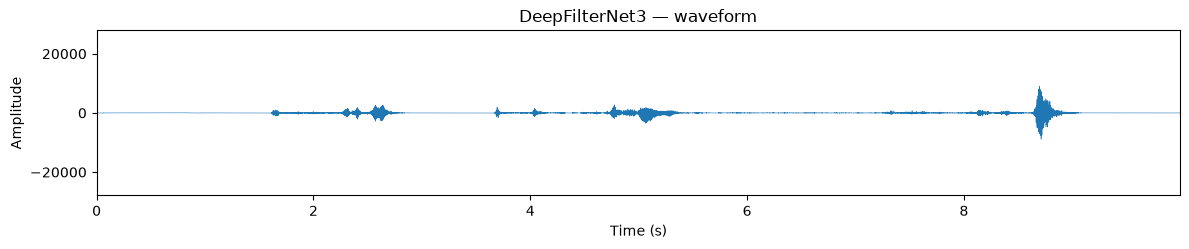
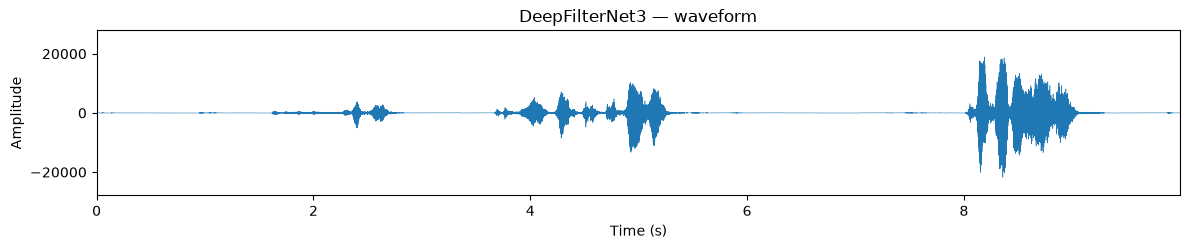
Fix DeepFilterNet speech loss: normalize input level before inference

Changed region(s): [[0.3734, 0.253, 0.9336, 0.6747], [0.2801, 0.4217, 0.3112, 0.506], [0.1245, 0.4498, 0.1867, 0.4779]]

diff --git a/index.html b/index.html
@@ -112,7 +112,9 @@ computed</strong>.</p>
   (<a href="https://github.com/Rikorose/DeepFilterNet">Rikorose/DeepFilterNet</a>).
   Predicts perceptual-band gains plus a complex multi-frame filter for the
   low frequencies, removing noise even underneath the speech. Run here with
-  the authors' pretrained checkpoint.</p>
+  the authors' pretrained checkpoint; the input is level-normalized to
+  −9&nbsp;dBFS RMS before inference (the checkpoint suppresses speech on
+  quiet inputs) and the gain undone afterwards.</p>
   <audio controls preload="none" src="audio/deepfilternet_enhanced.wav"></audio>
   <img src="plots/waveform_deepfilternet.png" alt="DeepFilterNet waveform" loading="lazy">
   <details><summary>Spectrogram (noisy vs enhanced)</summary>
@@ -129,13 +131,13 @@ computed</strong>.</p>
   <tr><td>Spectral subtraction</td><td>60.2 dB</td><td>gentlest, most musical noise</td></tr>
   <tr><td>Wiener</td><td>58.7 dB</td><td>stronger suppression, still musical noise</td></tr>
   <tr><td>Ephraim–Malah</td><td>55.9 dB</td><td>strongest classical, smooth residual</td></tr>
-  <tr><td>DeepFilterNet3</td><td><strong>39.6 dB</strong></td><td>neural, far cleaner residual</td></tr>
+  <tr><td>DeepFilterNet3</td><td><strong>40.4 dB</strong></td><td>neural, far cleaner residual</td></tr>
 </table>
 <p>The classical methods form a clear progression, but all share the same
 limit: a stationary noise model and a real per-bin gain cannot remove noise
 that overlaps speech in time and frequency. The pretrained neural model —
 having learned speech structure from data — reduces noise by ~24&nbsp;dB,
-over 16&nbsp;dB beyond the best classical method.</p>
+over 15&nbsp;dB beyond the best classical method.</p>
 
 </body>
 </html>

diff --git a/src/deepfilternet_test.py b/src/deepfilternet_test.py
@@ -58,13 +58,21 @@ def main():
     print(f'loaded {filename}: {meta.num_frames} samples at {meta.sample_rate} Hz '
           f'-> resampled to {model_sr} Hz')
 
+    # Normalize input level before inference: this DeepFilterNet3 checkpoint
+    # degrades badly on quiet inputs (it starts suppressing the speech itself),
+    # so bring the RMS up to about -9 dBFS and undo the gain afterwards.
+    target_rms_db = -9.
+    rms_db = 20 * torch.log10(audio.pow(2).mean().sqrt() + 1e-12).item()
+    gain = 10 ** ((target_rms_db - rms_db) / 20)
+    print(f'input RMS {rms_db:.1f} dBFS -> applying {20*np.log10(gain):.1f} dB gain for inference')
+
     # Enhance
-    enhanced = enhance(model, df_state, audio)
+    enhanced = enhance(model, df_state, audio * gain)
 
     # Resample back to the input rate and save
     enhanced_out = resample(enhanced, model_sr, meta.sample_rate)
-    # load_audio returns floats in [-1, 1]; scale back to int16 range
-    out = enhanced_out.squeeze(0).numpy() * 32767
+    # load_audio returns floats in [-1, 1]; scale back to int16 range and undo the gain
+    out = enhanced_out.squeeze(0).numpy() * 32767 / gain
     out_wav = os.path.join(results_dir, 'deepfilternet_enhanced.wav')
     wavfile.write(out_wav, meta.sample_rate, np.clip(out, -32768, 32767).astype(np.int16))
     print(f'wrote {out_wav}')

diff --git a/README.md b/README.md
@@ -153,15 +153,22 @@ flowchart LR
 ```mermaid
 flowchart LR
     WAV[enhancement_test.wav<br/>44.1 kHz] --> RS1[resample to 48 kHz]
-    RS1 --> STFT[STFT + ERB features]
+    RS1 --> NORM[normalize level<br/>to −9 dBFS RMS]
+    NORM --> STFT[STFT + ERB features]
     STFT --> ENC[encoder]
     ENC --> G[ERB gain decoder<br/>32-band gains]
     ENC --> DF[deep filtering decoder<br/>complex FIR per low-freq bin]
     G --> APPLY[apply to noisy spectrogram]
     DF --> APPLY
-    APPLY --> ISTFT[iSTFT] --> RS2[resample to 44.1 kHz]
+    APPLY --> ISTFT[iSTFT] --> RS2[resample to 44.1 kHz<br/>undo gain]
     RS2 --> OUT[results/deepfilternet_enhanced.wav]
 ```
+
+Note the **level normalization** step: the pretrained DeepFilterNet3
+checkpoint degrades badly on quiet inputs — on this file (−19 dBFS RMS) it
+suppressed the speech along with the noise. Normalizing the RMS to −9 dBFS
+before inference (and undoing the gain afterwards) restores clean speech;
+`src/deepfilternet_test.py` does this automatically.
 
 Setup (needs Python ≤ 3.11 for the prebuilt Rust extension):
 
@@ -188,7 +195,7 @@ signal (lower = more noise removed):
 | Spectral subtraction | 60.2 dB | gentlest, most musical noise |
 | Wiener | 58.7 dB | stronger suppression, still musical noise |
 | Ephraim–Malah | 55.9 dB | strongest classical, smooth residual |
-| DeepFilterNet3 (pretrained) | 39.6 dB | neural, far cleaner residual |
+| DeepFilterNet3 (pretrained) | 40.4 dB | neural, far cleaner residual |
 
 Takeaways:
 
@@ -200,7 +207,7 @@ Takeaways:
   noise spectrum and a real, per-bin gain — so they cannot remove noise that
   overlaps speech in time and frequency.
 - The pretrained DeepFilterNet3 is in a different league (~24 dB noise
-  reduction, over 16 dB beyond the best classical method) because it learned
+  reduction, over 15 dB beyond the best classical method) because it learned
   speech structure from data and filters complex spectra across multiple
   frames, removing noise even underneath the speech.
 - The spectral subtraction and Wiener outputs match the book's published